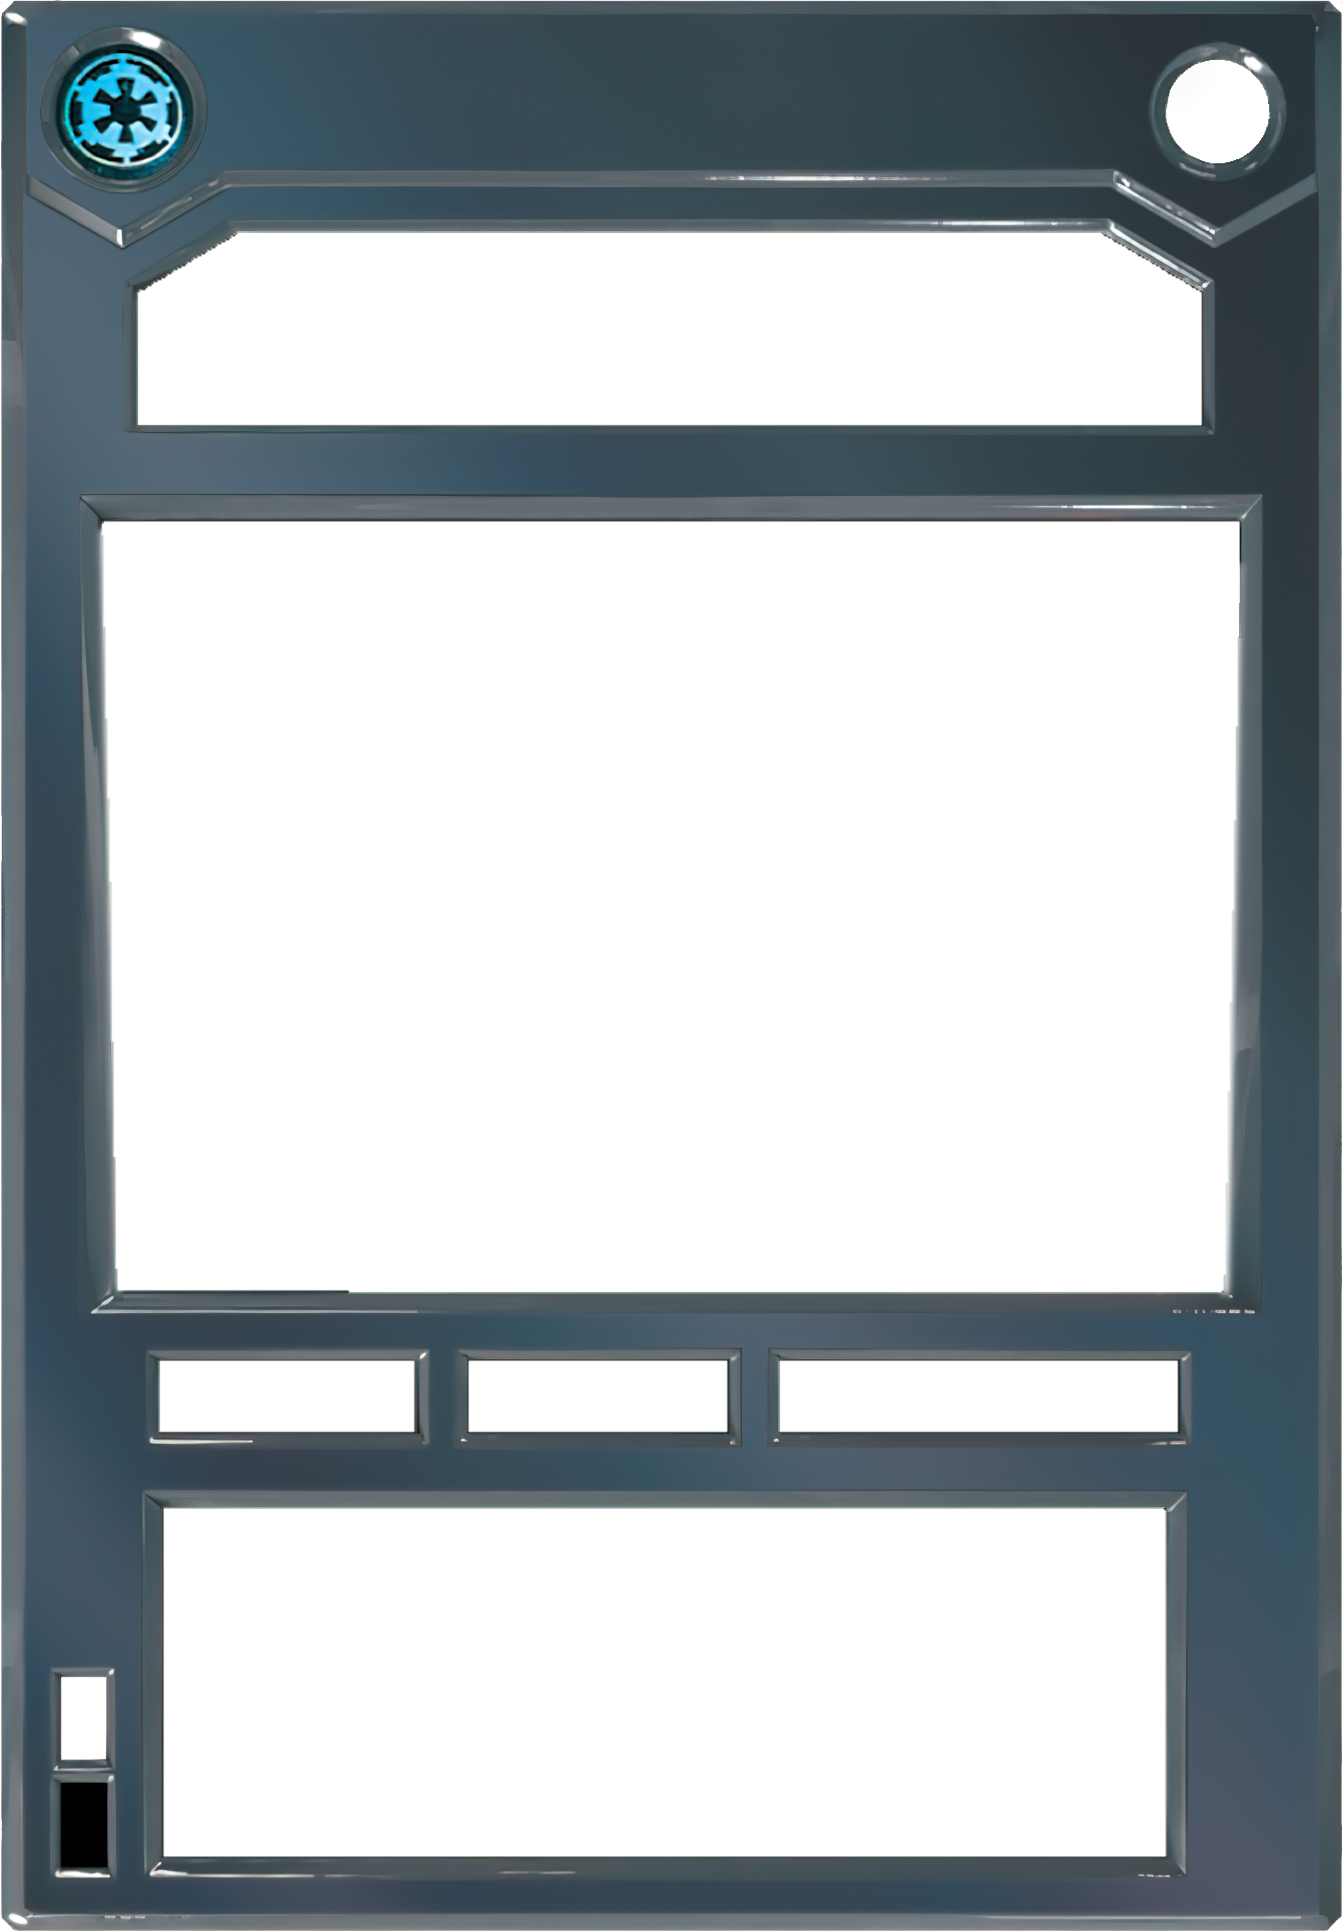
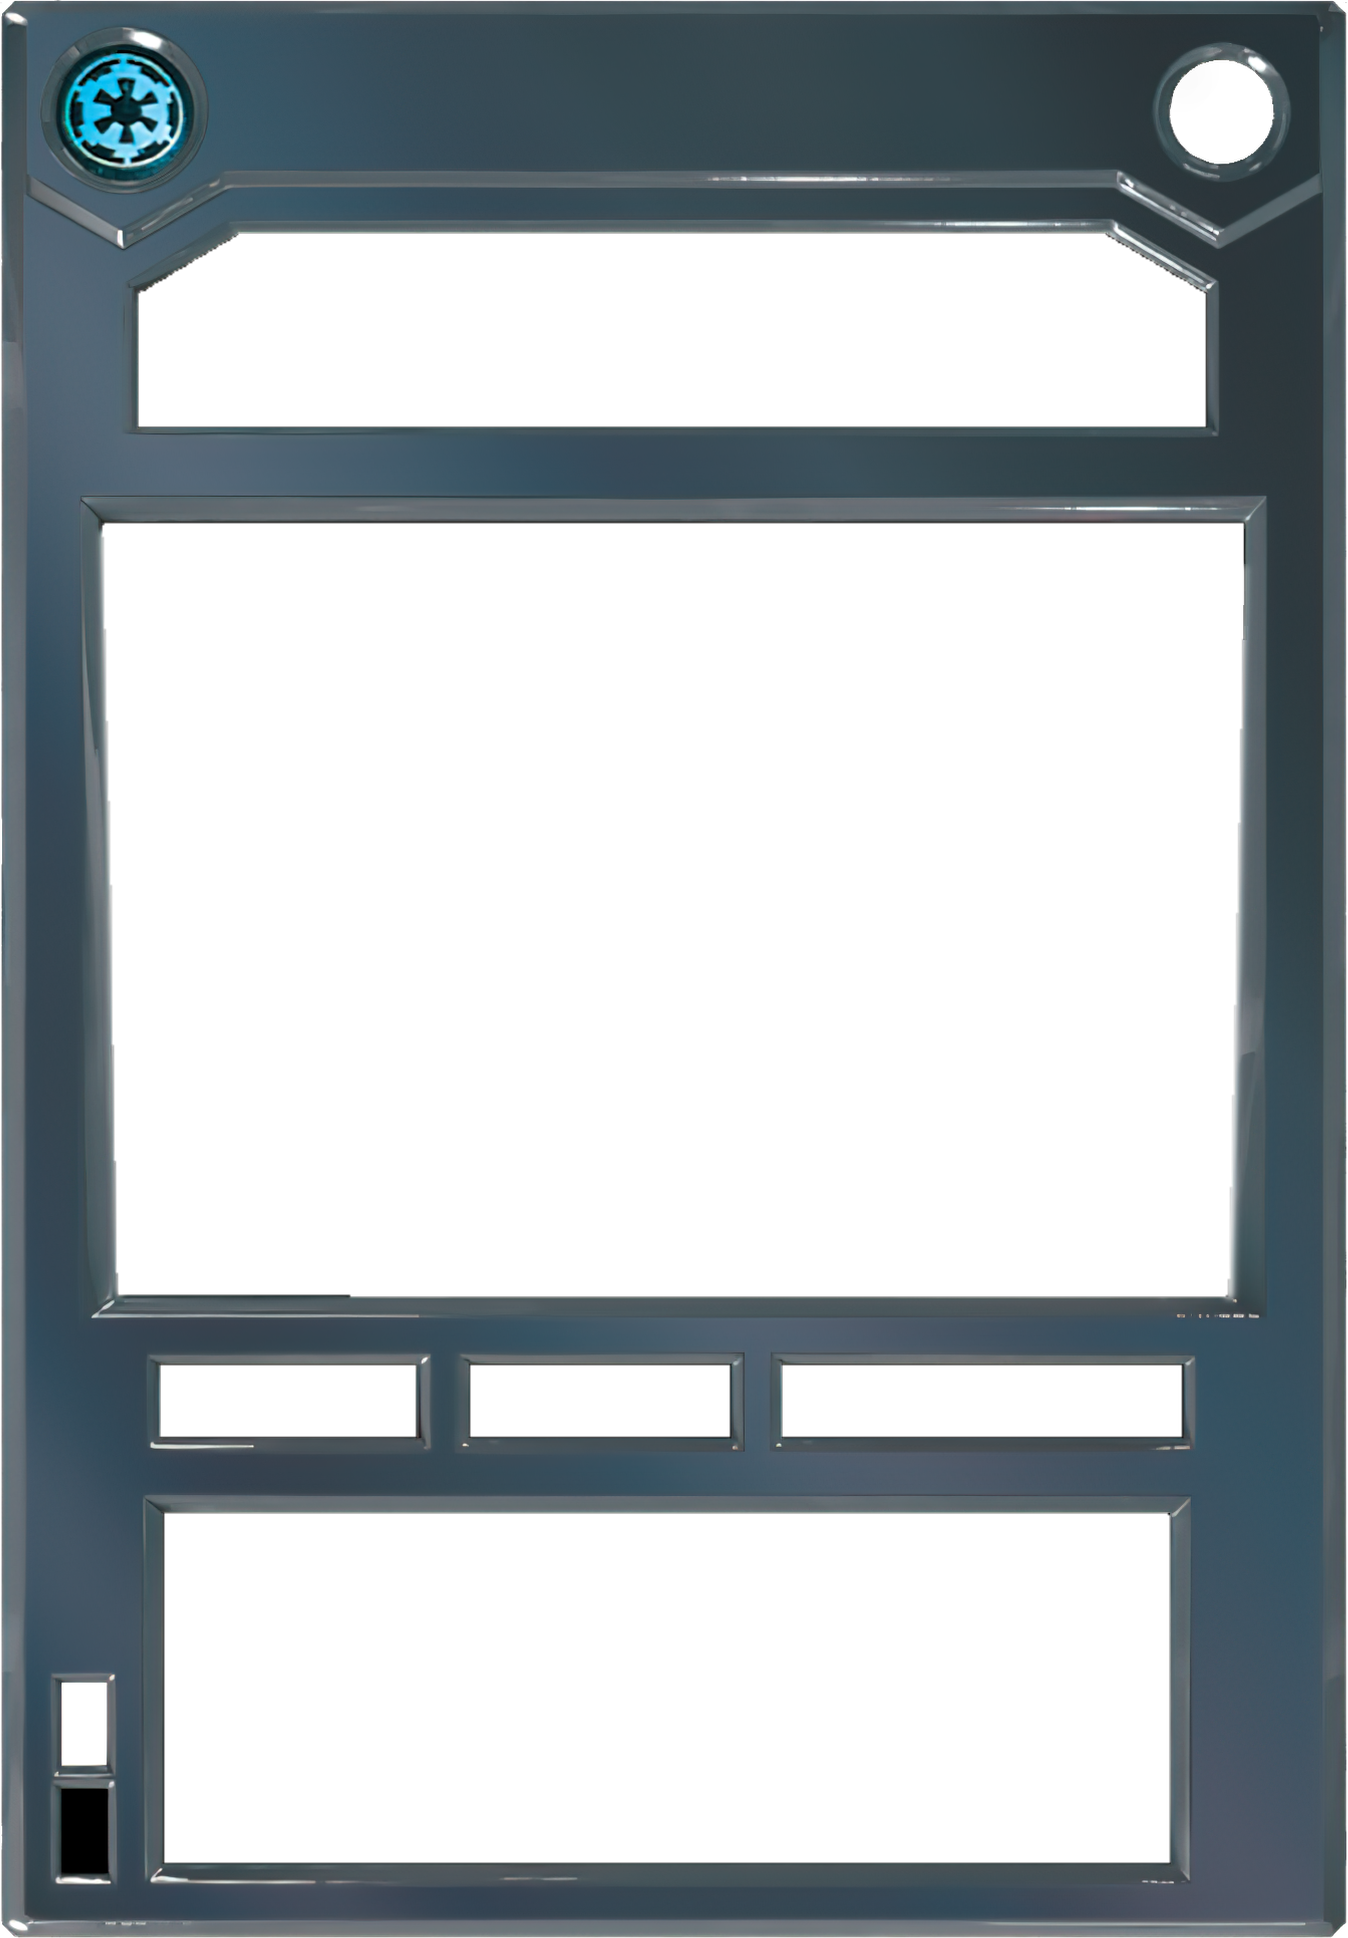
Rev 71 (pending deploy): PC character frames and boxes fitted to 10 PC characters (swccg-guild/work#52)
ls-character-rebel and ds-character-imperial plates rescaled and shifted by a frame-only
affine fit against VS24-27 PC hires images (Light 1426x1972 at (133,139), Dark 1348x1938
at (142,143)); title, destiny, stat row, icon column, set mark, deploy/forfeit, copyright,
expansion sphere, swapped affiliation disc and Episode I ring disc moved by the offsets
compare_pc.py measured (same on every card of a side). Tools in tools/pc_characters/.

Changed region(s): [[0.9769, 0.9943, 1.0, 1.0], [0.0, 0.9943, 0.0305, 1.0]]

diff --git a/render.py b/render.py
@@ -16,21 +16,22 @@ W, H = 1632, 2220
 
 # Template geometry (x, y, w, h) in 1632×2220 space.
 TEMPLATES = {
-    "ds-character-imperial": {
-        "frame": ("frames/ds-character-imperial.png", 144, 144),
+    "ds-character-imperial": {   # #52: frame and boxes fitted to 10 PC characters (VS24-27); see STANDARD.md Rev 71
+        "frame": ("frames/ds-character-imperial.png", 142, 143),
         "art": (256, 666, 1121, 770),
-        "title": (374, 200, 884, 90),
-        "destiny": (1312, 213, 100, 84),
+        "title": (392, 200, 884, 90),
+        "destiny": (1316, 209, 100, 84),
         "lore": (321, 377, 989, 193),
-        "stats_y": 1506,
-        "stats": [(305, 251), (613, 256), (924, 396)],   # (x, width): the three black stat boxes
+        "stats_y": 1510,
+        "stats": [(311, 251), (619, 256), (930, 396)],   # (x, width): the three black stat boxes
         "game_text": (341, 1663, 971, 333),
-        "deploy": (205, 1821, 45, 83),
-        "forfeit": (205, 1927, 47, 85),
-        "icon_slots": [(1352, 1643), (1352, 1749), (1352, 1855)],
-        "set_icon_abs": (1358, 1933),
+        "deploy": (203, 1827, 45, 83),
+        "forfeit": (203, 1932, 47, 85),
+        "icon_slots": [(1354, 1649), (1354, 1755), (1354, 1861)],
+        "set_icon_abs": (1370, 1945),
         "expansion_ring": (1380, 402),
-        "copyright_x": 1404,
+        "copyright_x": 1392,
+        "disc_at": (195, 183), "ring_disc_dy": 14,
     },
     "ds-effect": {   # #62: frame and boxes fitted to the PC and printed Decipher effects
         "frame": ("frames/ds-effect.png", 141, 141),
@@ -132,14 +133,15 @@ TEMPLATES = {
         "lore": (321, 378, 989, 190), "card_type": (262, 1506, 1110, 61), "game_text": (314, 1665, 997, 328),
         "banner_icon": (1292, 1492), "set_icon_abs": (1391, 1940), "set_icon_size": 64, "expansion_ring": (1374, 405), "copyright_x": 1404,
     },
-    "ls-character-rebel": {
-        "frame": ("frames/ls-character-rebel.png", 135, 131),
-        "art": (259, 656, 1130, 763), "title": (400, 200, 900, 90), "destiny": (1318, 196, 108, 108),
-        "lore": (300, 380, 1040, 170), "stats_y": 1504, "stats": [(300, 275), (605, 285), (930, 420)],
-        "stats_wide": (605, 745), "game_text": (340, 1668, 990, 326),
-        "deploy": (205, 1827, 45, 78), "forfeit": (205, 1931, 45, 84),
-        "icon_slots": [(1367, 1653), (1367, 1757)], "set_icon_abs": (1372, 1935),
-        "expansion_ring": (1381, 405), "copyright_x": 1428, "dark_text": True,
+    "ls-character-rebel": {   # #52: frame and boxes fitted to 10 PC characters (VS24-27); see STANDARD.md Rev 71
+        "frame": ("frames/ls-character-rebel.png", 133, 139),
+        "art": (259, 656, 1130, 763), "title": (410, 196, 900, 90), "destiny": (1310, 204, 108, 108),
+        "lore": (300, 380, 1040, 170), "stats_y": 1502, "stats": [(296, 275), (601, 285), (926, 420)],
+        "stats_wide": (601, 745), "game_text": (340, 1668, 990, 326),
+        "deploy": (203, 1827, 45, 78), "forfeit": (203, 1931, 45, 84),
+        "icon_slots": [(1353, 1649), (1353, 1753)], "set_icon_abs": (1367, 1941),
+        "expansion_ring": (1381, 409), "copyright_x": 1415, "dark_text": True,
+        "disc_at": (189, 184), "ring_disc_dy": 12,
     },
     "ls-character-droid": {
         "frame": ("frames/ls-character-droid.png", 144, 133),

diff --git a/tools/pc_characters/framefit.py b/tools/pc_characters/framefit.py
@@ -1,0 +1,32 @@
+"""Fit scale+offset of build frame onto PC frame (745 space), masking element boxes and art window."""
+import json, sys, numpy as np, cv2
+from pathlib import Path
+def load(d):
+    r = json.load(open(d/"report.json"))
+    B = cv2.imread(str(d/"build.png")).astype(np.float32)
+    P = cv2.imread(str(d/"pc.png")).astype(np.float32)
+    m = np.ones(B.shape[:2], np.uint8)
+    for k, e in r["elements"].items():
+        if e.get("box"):
+            x, y, w, h = e["box"]; m[max(0,y-6):y+h+6, max(0,x-6):x+w+6] = 0
+    m[:, :40] = 0; m[:, -40:] = 0; m[:40] = 0; m[-40:] = 0   # rounded corners / border
+    return B, P, m
+def cost(B, P, m, s, tx, ty, cx=372.5, cy=519.5):
+    M = np.float32([[s, 0, cx - s*cx + tx], [0, s, cy - s*cy + ty]])
+    W = cv2.warpAffine(B, M, (B.shape[1], B.shape[0]), flags=cv2.INTER_CUBIC)
+    return np.abs(W - P).mean(2)[m > 0].mean()
+def fit(dirs):
+    data = [load(Path(d)) for d in dirs]
+    f = lambda s, tx, ty: np.mean([cost(B, P, m, s, tx, ty) for B, P, m in data])
+    best = (f(1, 0, 0), 1, 0, 0); base = best[0]
+    for step_s, step_t, n in ((0.002, 1.0, 3), (0.001, 0.5, 2), (0.0005, 0.25, 2)):
+        _, s0, x0, y0 = best
+        for s in s0 + step_s*np.arange(-n, n+1):
+            for tx in x0 + step_t*np.arange(-n, n+1):
+                for ty in y0 + step_t*np.arange(-n, n+1):
+                    c = f(s, tx, ty)
+                    if c < best[0]: best = (c, s, tx, ty)
+    return base, best
+if __name__ == "__main__":
+    base, (c, s, tx, ty) = fit(sys.argv[1:])
+    print(f"MAD {base:.2f} -> {c:.2f}  scale {s:.4f}  tx {tx:+.2f} ty {ty:+.2f} (745 px)")

diff --git a/tools/pc_characters/refit_frame.py b/tools/pc_characters/refit_frame.py
@@ -1,0 +1,26 @@
+#!/usr/bin/env python3
+"""Refit a character frame plate to the PC (swccg-guild/work#52).
+
+    python3 tools/pc_characters/refit_frame.py FRAME.png FX FY SX SY TX TY  -> rewrites FRAME.png, prints new (x, y)
+
+SX/SY and TX/TY are the frame-only similarity fit of a CardMaker build onto the PC hires image (745 px space, scale
+about the card centre (372.5, 519.5), shift in 745 px), from tools/pc_characters/frame_ecc.py. The plate is resampled
+(premultiplied alpha, Lanczos) so that it lands at an integer master position with the sub-pixel rest baked in.
+"""
+import sys, numpy as np, cv2
+from PIL import Image
+f, fx, fy, sx, sy, tx, ty = sys.argv[1], *map(float, sys.argv[2:])
+im = np.asarray(Image.open(f).convert("RGBA")).astype(np.float32)
+h, w = im.shape[:2]
+CX, CY = 815.0, 1111.0          # master coordinates of the 745 px card centre
+nx = sx * (fx - CX) + CX + 2 * tx; ny = sy * (fy - CY) + CY + 2 * ty
+ix, iy = int(np.floor(nx)), int(np.floor(ny))
+nw, nh = int(np.ceil(nx + sx * w)) - ix, int(np.ceil(ny + sy * h)) - iy
+M = np.float32([[sx, 0, nx - ix], [0, sy, ny - iy]])
+a = im[..., 3:4] / 255.0
+pm = np.concatenate([im[..., :3] * a, im[..., 3:4]], 2)
+out = cv2.warpAffine(pm, M, (nw, nh), flags=cv2.INTER_LANCZOS4, borderMode=cv2.BORDER_CONSTANT, borderValue=0)
+out = np.clip(out, 0, 255); A = out[..., 3:4]
+rgb = np.where(A > 0, out[..., :3] / np.maximum(A / 255.0, 1e-6), 0)
+Image.fromarray(np.concatenate([np.clip(rgb, 0, 255), A], 2).round().astype(np.uint8), "RGBA").save(f)
+print(f"{f}: {w}x{h} at ({fx:g},{fy:g}) -> {nw}x{nh} at ({ix},{iy})")

diff --git a/tools/pc_characters/frame_ecc.py b/tools/pc_characters/frame_ecc.py
@@ -1,0 +1,17 @@
+import sys, json, numpy as np, cv2
+from pathlib import Path
+sys.path.insert(0, str(Path(__file__).parent)); from framefit import load, cost
+for d in sys.argv[1:]:
+    B, P, m = load(Path(d))
+    g = lambda a: cv2.GaussianBlur(cv2.cvtColor(a.astype(np.uint8), cv2.COLOR_BGR2GRAY).astype(np.float32), (5,5), 0)
+    W = np.eye(2, 3, dtype=np.float32)
+    try:
+        _, W = cv2.findTransformECC(g(P), g(B), W, cv2.MOTION_AFFINE, (cv2.TERM_CRITERIA_EPS | cv2.TERM_CRITERIA_COUNT, 200, 1e-6), m, 5)
+    except cv2.error as e: print(d, "fail", e); continue
+    # W maps PC coords -> build coords; invert to get build->PC
+    A = cv2.invertAffineTransform(W)
+    sx, sy = A[0,0], A[1,1]; cx, cy = 372.5, 519.5
+    tx = A[0,0]*cx + A[0,1]*cy + A[0,2] - cx; ty = A[1,0]*cx + A[1,1]*cy + A[1,2] - cy
+    M = A
+    Wb = cv2.warpAffine(B, M, (745,1039), flags=cv2.INTER_CUBIC)
+    print(f"{d}: sx {sx:.4f} sy {sy:.4f} shear {A[0,1]:+.4f}/{A[1,0]:+.4f} centre shift {tx:+.2f},{ty:+.2f}  MAD {np.abs(B-P).mean(2)[m>0].mean():.2f} -> {np.abs(Wb-P).mean(2)[m>0].mean():.2f}")

diff --git a/STANDARD.md b/STANDARD.md
@@ -691,3 +691,19 @@ ANH = `icons/set-anh-grainy.png` (from ANH-D-astromechshortage.gif). Do the same
   (436,214,924,115), card type 64 px / spacing 3, game text 66 px, sphere and Episode I disc in red rings
   (`expansion_hole`), coins (1938,1386). Sites print the uniqueness dot and their Planet / Exterior / Episode I icons;
   Executor's subtype italicises _Imperial_.
+- Rev 71 (2026-11-12, swccg-guild/work#52, Characters: Rebel / Imperial plates with the Republic, First Order and
+  Resistance discs; **pending deploy**, not yet on the live CardMaker). Measured with `compare_pc.py` on 10 PC
+  characters (VS24-27; Light: Chewbacca Of Kashyyyk (V), Obi-Wan Kenobi Jedi In Exile, Captain Han Solo (V), Finn
+  Resistance Hero, Corporal Rushing (V); Dark: Sil Unch (V), Captain Moden Canady, Cardo, Warrant Officer
+  Bachenkall, DS-61-3 (V)); every per-element offset was the same on all five cards of a side.
+  - **Frames:** a frame-only affine fit (ECC, element boxes and art window masked; `tools/pc_characters/`) gives the
+    same scale and shift on every reference of a side (to 0.01 px): Light `ls-character-rebel` 0.4 % too large and
+    2.3 px (745) right / 2 px high → 1426×1972 at (133, 139); Dark `ds-character-imperial` 0.3 % too small, 1 px high
+    → 1348×1938 at (142, 143), the same error as Bardez's Effect frames (Rev 68). Resampled with premultiplied
+    Lanczos (`refit_frame.py`, sub-pixel rest baked in).
+  - **Boxes** (master px; Light / Dark): title +10/−4 / +18/0; destiny −8/+8 / +4/−4; stat row −4/−2 / +6/+4; icon
+    column −14/−4 / +2/+6; set mark −5/+6 / +12/+12; deploy and forfeit 2 px left (Dark also 5-6 px down); copyright
+    13 / 12 px left; expansion sphere (Light) 4 down; swapped affiliation disc (`disc_at`) (189, 184) / (195, 183);
+    Episode I disc under the sphere (`ring_disc_dy`) 12 / 14 down.
+  - **Left as found** (evidence/52/checklist.md): lore and game text line widths and wraps (the fitter, #49), art
+    credit and label strip, Bardez XCF and printed-scan cross-checks (R7) not yet done.
